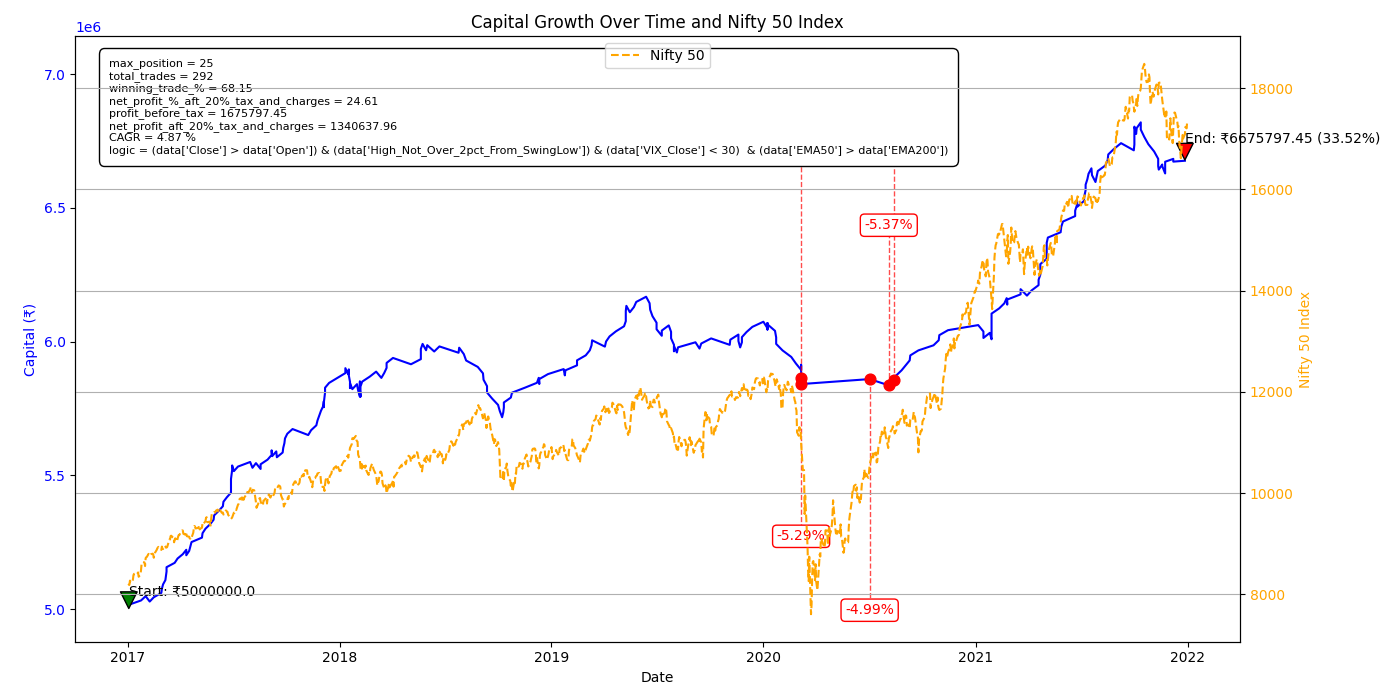
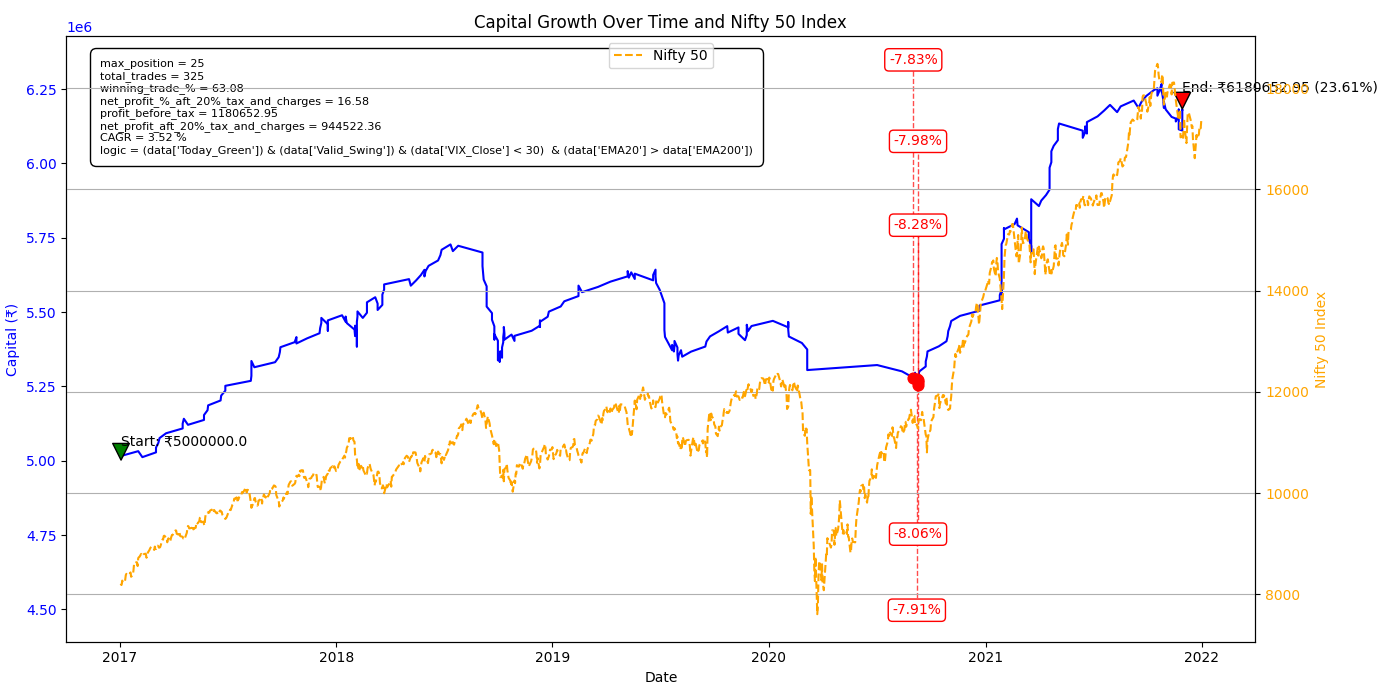
Initial commit

diff --git a/02.SwingTrade_BackTest/3.main_test1_with_vix.py b/02.SwingTrade_BackTest/3.main_test1_with_vix.py
@@ -671,13 +671,25 @@ def mark_signals(enctoken, symbol, start_date, end_date):
     #three_candle_dwn = (data['Low'].shift(3) > data['Low'].shift(2)) & (data['Low'].shift(2) > data['Low'].shift(1)) & (data['Low'].shift(1) > data['Low'])
     #cond_buy_text = "(three_candle_dwn & (data['VIX_Close'] < 30) & (data['EMA20'] > data['EMA50']))"
     # Detect swing low: Current low is minimum in a 5-bar window (2 left, current, 2 right)
+    # ####################################################
+    # window = 5
+    # data['Swing_Low_Price'] = data['Low'].rolling(window, center=True).min()
+    # data['Is_Swing_Low'] = data['Low'] == data['Swing_Low_Price']
+    # data['High_Not_Over_2pct_From_SwingLow'] = (
+    #         (data['High'] - data['Swing_Low_Price']) / data['Swing_Low_Price'] <= 0.02)
+    # cond_buy_text = "(data['High_Not_Over_2pct_From_SwingLow']) & (data['VIX_Close'] < 30)  & (data['EMA20'] > data['EMA200'])"
+    # ####################################################
     ####################################################
     window = 21
-    data['Swing_Low_Price'] = data['Low'].shift(1).rolling(window, center=False).min()
-    data['Is_Swing_Low'] = data['Low'].shift(1) == data['Swing_Low_Price']
-    data['High_Not_Over_2pct_From_SwingLow'] = (
-            (data['High'] - data['Swing_Low_Price']) / data['Swing_Low_Price'] <= 0.02)
-    cond_buy_text = "(data['Close'] > data['Open']) & (data['High_Not_Over_2pct_From_SwingLow']) & (data['VIX_Close'] < 30)  & (data['EMA50'] > data['EMA200'])"
+
+    data['Swing_Low_Price'] = data['Low'].rolling(window).min()
+    data['Swing_High_Price'] = data['High'].rolling(window).max()
+    data['Valid_Swing'] = (
+            (data['Low'] == data['Swing_Low_Price']) &
+            ((data['Swing_High_Price'] - data['Swing_Low_Price']) / data['Swing_Low_Price'] > 0.10)
+    )
+    data['Today_Green'] = data['Close'] > data['Open']
+    cond_buy_text = "(data['Today_Green']) & (data['Valid_Swing']) & (data['VIX_Close'] < 30)  & (data['EMA20'] > data['EMA200'])"
     ####################################################
     # data['Pullback'] = (
     #         (data['Close'] < data['EMA20']) &
